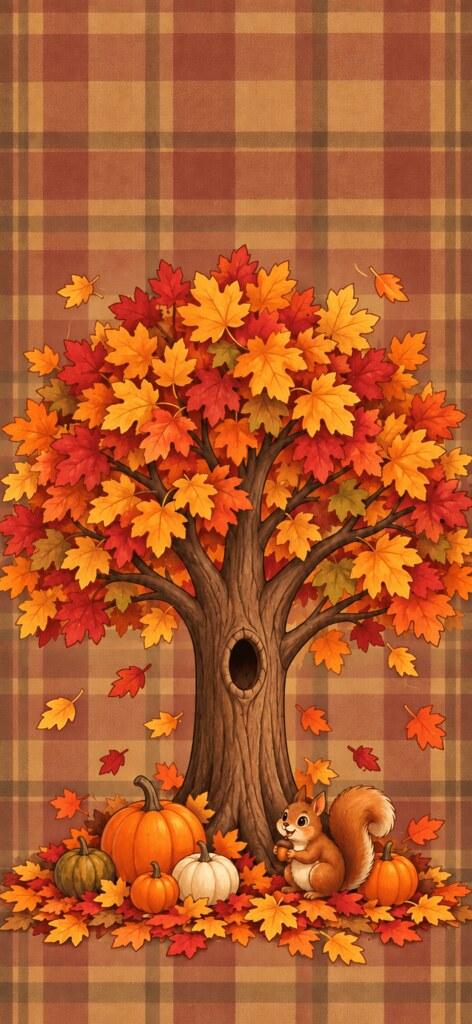
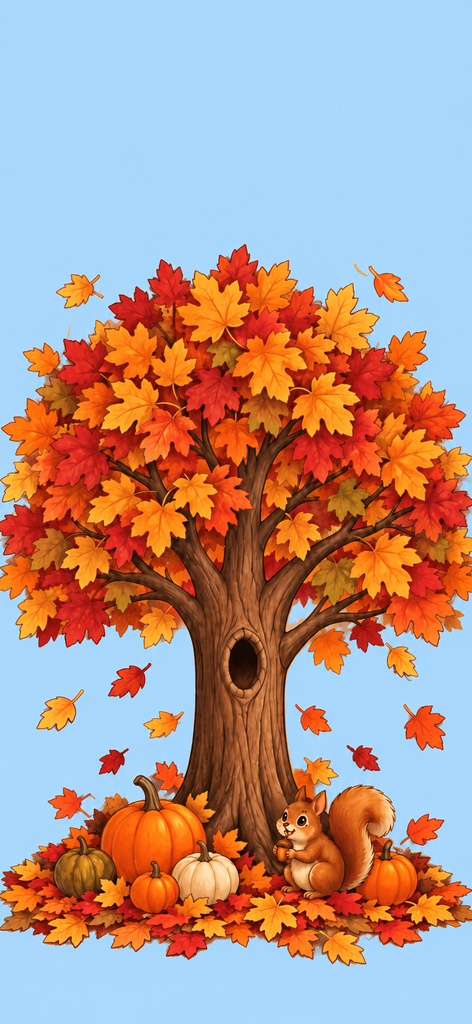
feat: refresh bundled mosaic artwork

diff --git a/scripts/e2e-smoke.ts b/scripts/e2e-smoke.ts
@@ -1,6 +1,6 @@
 /**
  * Mobile smoke test against a running preview (default http://localhost:4231):
- * pick the lighthouse, start, open a panel, paint, hint, undo, remove. Screenshots go to
+ * pick the autumn tree, start, open a panel, paint, hint, undo, remove. Screenshots go to
  * .claude/shots/. Run: bun run build && bunx vite preview --port 4231 --strictPort,
  * then bun run scripts/e2e-smoke.ts [baseUrl].
  */
@@ -39,10 +39,10 @@ async function main(): Promise<void> {
   await shot(page, '01-gallery-empty');
 
   await page.getByRole('button', { name: 'New Picture' }).click();
-  await page.getByRole('button', { name: 'Lighthouse' }).waitFor();
+  await page.getByRole('button', { name: 'Autumn Tree' }).waitFor();
   await shot(page, '02-source');
 
-  await page.getByRole('button', { name: 'Lighthouse' }).click();
+  await page.getByRole('button', { name: 'Autumn Tree' }).click();
   await page.waitForURL(/#\/setup/);
   await page.locator('.preview-box canvas').waitFor();
   await shot(page, '03-setup');
@@ -69,7 +69,7 @@ async function main(): Promise<void> {
   await shot(page, '03b-setup-dither');
   await page.reload();
   await page.waitForURL(/#\/new/);
-  await page.getByRole('button', { name: 'Lighthouse' }).click();
+  await page.getByRole('button', { name: 'Autumn Tree' }).click();
   await page.waitForURL(/#\/setup/);
   await page.locator('.preview-box canvas').waitFor();
   if (!(await page.getByRole('switch', { name: /Dither/ }).isChecked())) {
@@ -87,7 +87,7 @@ async function main(): Promise<void> {
   await page.locator('.panel-btn').first().waitFor();
   await shot(page, '04-overview');
 
-  // Parts list: whole-picture counts sum to width*height (Lighthouse is 3:4, 48x64), a panel's to 256.
+  // Parts list: whole-picture counts sum to width*height (Autumn Tree is 3:4, 48x64), a panel's to 256.
   await page.getByRole('button', { name: 'Parts' }).click();
   const parts = page.getByRole('dialog', { name: 'Parts' });
   await parts.waitFor();
@@ -521,7 +521,7 @@ async function main(): Promise<void> {
   await swCtx.setOffline(true);
   await sw.reload();
   await sw.getByRole('button', { name: 'New Picture' }).click();
-  await sw.getByRole('button', { name: 'Lighthouse' }).click();
+  await sw.getByRole('button', { name: 'Autumn Tree' }).click();
   await sw.locator('.preview-box canvas').waitFor({ timeout: 10000 });
   await sw.screenshot({ path: `${out}/23-offline-setup.png` });
   console.log('offline: setup preview rendered');

diff --git a/tests/library.test.ts b/tests/library.test.ts
@@ -4,19 +4,22 @@ import { describe, expect, it } from 'vitest';
 import { buildManifest, defaultAspectFor, entryFor, titleFor } from '../scripts/build-library';
 
 describe('defaultAspectFor', () => {
-  it.each(['autumn-tree', 'dachshund-in-hat', 'lighthouse', 'concert-singer'])(
-    '%s is portrait 3:4',
-    (slug) => expect(defaultAspectFor(slug)).toBe('3:4'),
+  it.each(['autumn-tree'])('%s is portrait 3:4', (slug) =>
+    expect(defaultAspectFor(slug)).toBe('3:4'),
   );
-  it.each(['cartoon-dachshunds', 'cheshire-cat', 'orange-sunset'])('%s is landscape 4:3', (slug) =>
+  it.each(['cartoon-dachshunds', 'cheshire-cat'])('%s is landscape 4:3', (slug) =>
     expect(defaultAspectFor(slug)).toBe('4:3'),
   );
   it.each([
     'pixel-beach',
     'pixel-sheep-rider',
-    'sheep-in-space',
-    'leaping-bunnies',
-    'emotional-support-hotdog',
+    'happy-fox',
+    'yellow-submarine',
+    'friendly-dinosaur',
+    'mushroom-house',
+    'friendly-owl',
+    'rocket-launch',
+    'sea-turtle',
     'unknown-thing',
   ])('%s is square 1:1', (slug) => expect(defaultAspectFor(slug)).toBe('1:1'));
 });
@@ -35,13 +38,13 @@ describe('titleFor', () => {
 
 describe('manifest', () => {
   it('entry paths are relative with no leading slash', () => {
-    expect(entryFor('lighthouse')).toEqual({
-      slug: 'lighthouse',
-      title: 'Lighthouse',
+    expect(entryFor('autumn-tree')).toEqual({
+      slug: 'autumn-tree',
+      title: 'Autumn Tree',
       aspect: '3:4',
       crop: { zoom: 1, cx: 0.5, cy: 0.5 },
-      src: 'library/lighthouse.webp',
-      thumb: 'library/lighthouse-thumb.webp',
+      src: 'library/autumn-tree.webp',
+      thumb: 'library/autumn-tree-thumb.webp',
     });
   });
 
@@ -57,6 +60,6 @@ describe('manifest', () => {
     expect(m).toHaveLength(12);
     const counts = { '1:1': 0, '3:4': 0, '4:3': 0 };
     for (const e of m) counts[e.aspect]++;
-    expect(counts).toEqual({ '1:1': 5, '3:4': 4, '4:3': 3 });
+    expect(counts).toEqual({ '1:1': 9, '3:4': 1, '4:3': 2 });
   });
 });

diff --git a/scripts/e2e-manual-checks.ts b/scripts/e2e-manual-checks.ts
@@ -7,9 +7,9 @@ import { gpuArgs } from './browser';
 
 const base = process.argv[2] ?? 'http://localhost:4231/';
 
-async function startLighthouse(page: Page): Promise<string> {
+async function startAutumnTree(page: Page): Promise<string> {
   await page.goto(`${base}#/new`);
-  await page.getByRole('button', { name: 'Lighthouse' }).click();
+  await page.getByRole('button', { name: 'Autumn Tree' }).click();
   await page.locator('.preview-box canvas').waitFor();
   await page.getByRole('button', { name: 'Start' }).click();
   await page.waitForURL(/#\/play\/[^/]+$/);
@@ -46,7 +46,7 @@ async function main(): Promise<void> {
   const errors: string[] = [];
   page.on('pageerror', (e) => errors.push(String(e)));
 
-  const id = await startLighthouse(page);
+  const id = await startAutumnTree(page);
 
   // ARC-003: gallery Restart empties the board.
   await page.goto(`${base}#/play/${id}/0`);

diff --git a/scripts/build-library.ts b/scripts/build-library.ts
@@ -9,8 +9,8 @@ import { basename, dirname, join, resolve } from 'node:path';
 import { fileURLToPath } from 'node:url';
 import type { Aspect, LibraryEntry, NormalizedCrop } from '../src/types';
 
-const PORTRAIT = new Set(['autumn-tree', 'dachshund-in-hat', 'lighthouse', 'concert-singer']);
-const LANDSCAPE = new Set(['cartoon-dachshunds', 'cheshire-cat', 'orange-sunset']);
+const PORTRAIT = new Set(['autumn-tree']);
+const LANDSCAPE = new Set(['cartoon-dachshunds', 'cheshire-cat']);
 
 export const FULL_EDGE = 1024;
 export const THUMB_EDGE = 256;

diff --git a/PRD.md b/PRD.md
@@ -76,10 +76,10 @@ Targets: iOS Safari 17+, Android Chrome (latest two), desktop Chrome/Safari/Fire
 - "New Picture" button opens the picture source screen.
 
 ### 5.2 New Picture — Source
-- **Bundled library:** the 12 user-provided starter images in `images/` (owner-supplied, licensed for use), already cleaned: metadata stripped, orientation applied, max 1024 px long edge, JPEG. A build step copies them into `public/library/`, converts to WebP, and generates a thumbnail plus a manifest with each image's default aspect and default crop.
-  - Square defaults (1:1): pixel-beach, pixel-sheep-rider, sheep-in-space, leaping-bunnies, emotional-support-hotdog.
-  - Portrait defaults (3:4): dachshund-in-hat, lighthouse, concert-singer, autumn-tree (tall 9:19.5, center-cropped).
-  - Landscape defaults (4:3): cartoon-dachshunds, cheshire-cat, orange-sunset (16:9, center-cropped).
+- **Bundled library:** 12 JPEG source images in `images/`, including generated, limited-palette illustrations. A build step converts them to WebP in `public/library/` and generates a thumbnail plus a manifest with each image's default aspect and default crop.
+  - Square defaults (1:1): pixel-beach, pixel-sheep-rider, happy-fox, friendly-dinosaur, yellow-submarine, mushroom-house, friendly-owl, rocket-launch, sea-turtle.
+  - Portrait default (3:4): autumn-tree.
+  - Landscape defaults (4:3): cartoon-dachshunds, cheshire-cat.
   - Every library image can be re-cropped to any aspect in the crop editor.
 - **Upload:** file picker accepting any image type the browser can decode (JPEG, PNG, WebP, and HEIC where supported; camera capture on mobile). Max input 20 MB.
 - **Image link:** a URL field downloads an image from another site. Only `https:` links are accepted (a bare host such as `example.com/a.jpg` gets `https://` prepended). The request omits credentials and the referrer, the host must allow cross-origin reads (CORS), the body is streamed and aborted past 20 MB, and the download times out after 30 s. When the download fails, the app suggests saving the image and uploading it instead. The picture is named from the last path segment, falling back to the host name.

diff --git a/CHANGELOG.md b/CHANGELOG.md
@@ -24,6 +24,9 @@ and this project adheres to [Semantic Versioning](https://semver.org/spec/v2.0.0
 
 ### Changed
 
+- Replaced seven bundled pictures with simple, boldly outlined fox, submarine, dinosaur, mushroom-house, owl, rocket and sea turtle illustrations for mosaic building.
+- Simplified Pixel Beach into a limited-palette scene with larger shapes for mosaic building.
+- Replaced Autumn Tree's plaid background with a plain sky.
 - XR workspace: grip-grab now tracks the controller's full orientation — pitch, roll and yaw — not just position, and while gripping the right thumbstick rotates (left/right) and resizes (up/down, 0.4x–3x) whatever is held. The color tray now tilts like a desk console facing you instead of standing edge-on, so it is selectable from oblique angles. Saved workspaces from earlier builds restore unchanged.
 - Faster, cache-safe update detection: the page checks for a new deploy immediately and every 5 minutes (was 60) via a network-only `/version.json` build fingerprint, and the service-worker script registers with `updateViaCache: 'none'`. A changed fingerprint triggers the normal safe apply path; nothing reloads during active XR play.
 - Buy parts: the frame export is now a buildable raised frame — a backing plate one stud larger than the panels, a brick ring to panel-top height, a plate layer to dot height, and a smooth tile cap one plate above the dots, corners left studded — replacing the 1x16 brick border ring, which the pin-hole canvases cannot hold.
